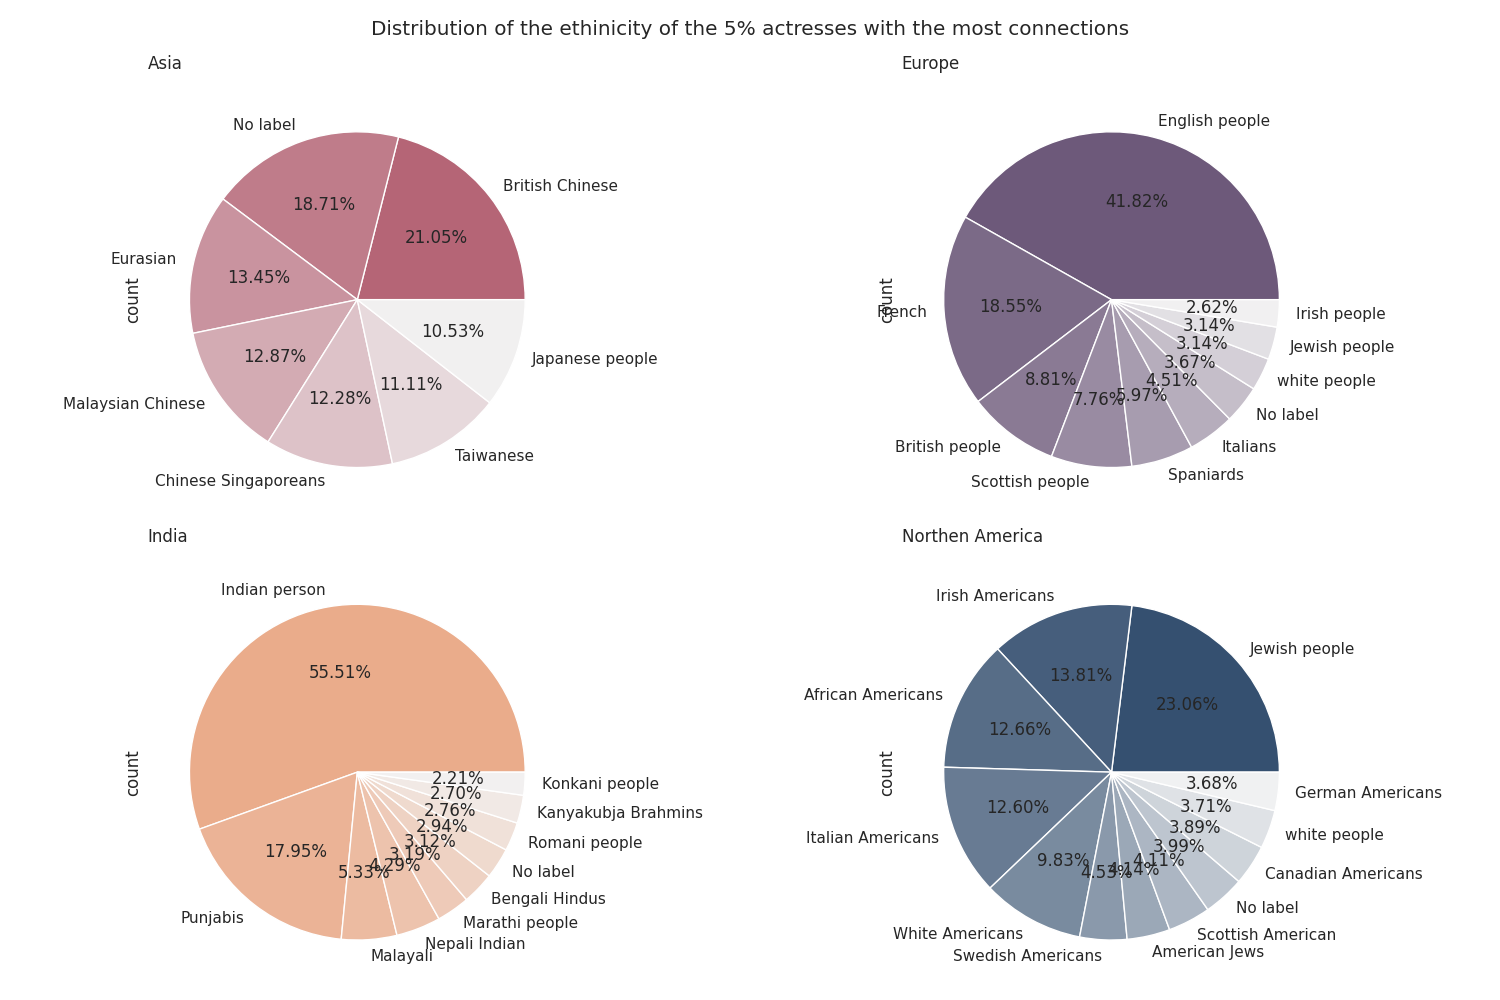
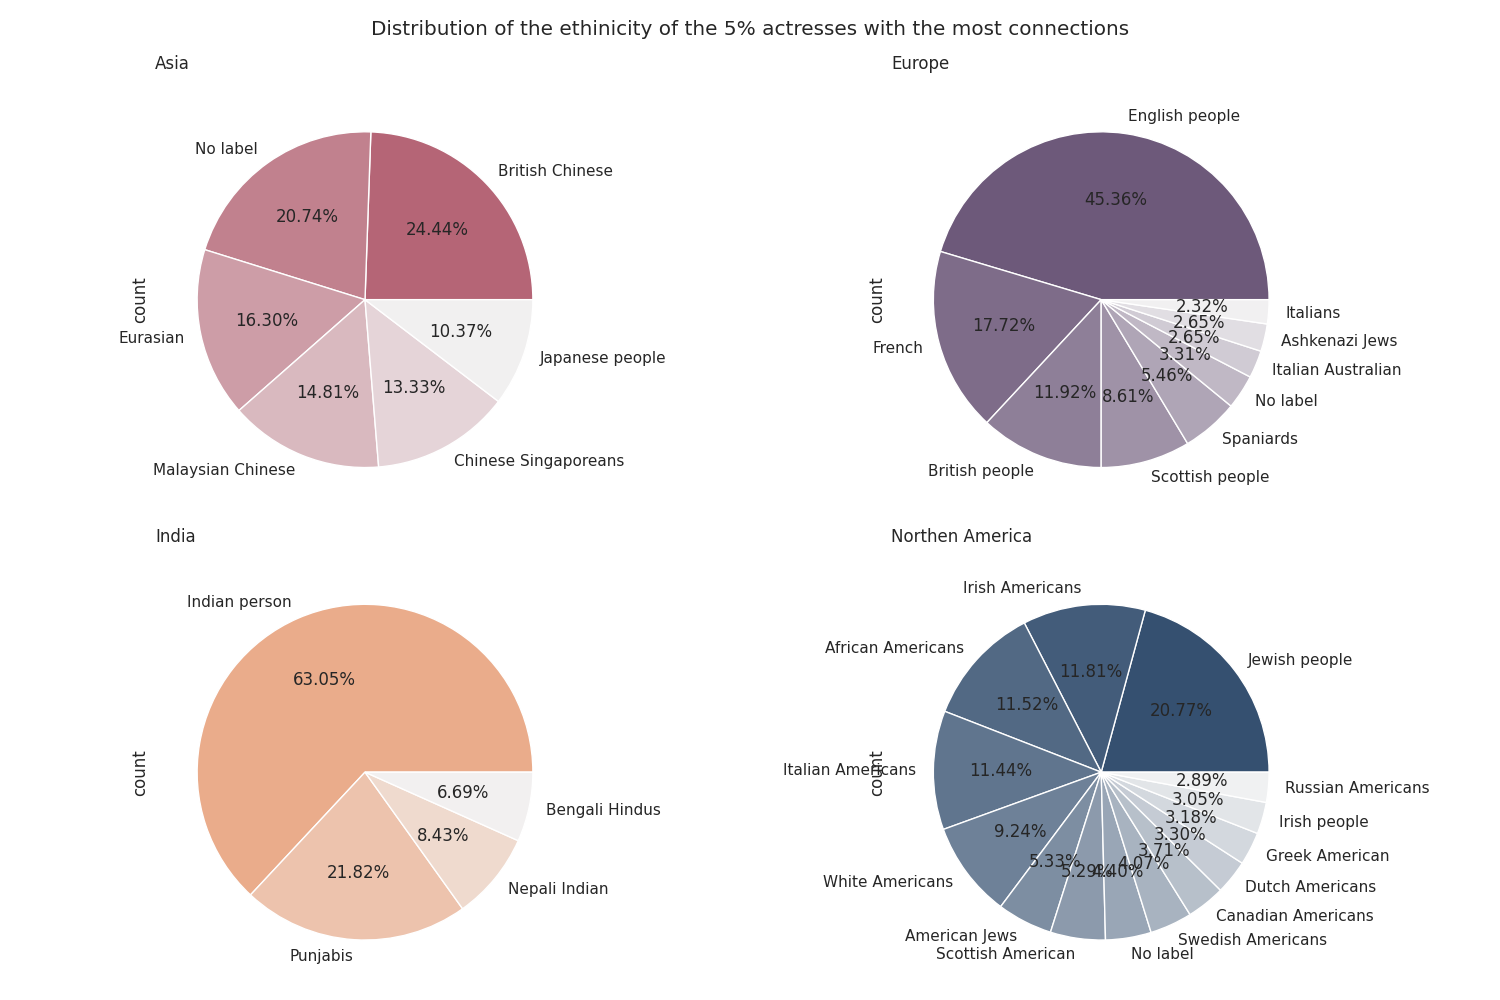
Add network analysis

diff --git a/_posts/2022-10-05-network.md b/_posts/2022-10-05-network.md
@@ -1,21 +1,55 @@
 ---
 layout: post
-title: Actors' connections
+title: Exploring the interconnected world of actors
 ---
 
-Exploring the connections between actors in the network tells us a lot about the importance of each of them. The goal of this part is to explore the relations between actors to find out who is the most important actor in the network and what general conclusions can be drawn from the characteristics of the most influential actors.
+The intricate web of connections between actors in the cinema industry is not just a curiosity, it's a reflection of influence, opportunity, and the dynamics of the industry. Our exploration aims to uncover the pivotal figures in this network and draw insights from the traits of these influential players.
 
-## Big whales in a vast ocean
+## Navigating the seas of stardom
 
-The first thing we can do is to find out who is the most connected actor in the network. We can do this by calculating the degree of each actor and then sorting them in descending order. The degree of an actor is the number of connections it has with other actors. The higher the degree, the more connected the actor is. 
+### Identifying the network hubs
+
+Our first step is to identify the most connected actors in the network. This is done by calculating the degree of each actor (the number of direct connections they have). Actors with higher degrees are central nodes in this vast network, people that we can call big whales in the ocean of the cinema industry.
 
 <img src="plots/connections_distribution.png" alt="Connections distribution" style="width: 100%;">
 
-As we can see in those distribution plots, the vast majority of actors have a very low degree. This means that most actors are not connected to many other actors. However, there are a few actors that are very well connected. In fact, the most connected actor in the Northern America has a degree of 1382 while the median degree is 28. This shows well the disparity between the most connected actors and the rest of the network. 
+The disparity in connection degrees is striking. Most actors have few links, with a median degree of just 28. In contrast, some are extraordinarily well-connected, like a North American actor boasting 1382 connections. This stark contrast highlights the uneven distribution of influence and reach.
+
+### The power of connection for new actors
+
+For an emerging actor, these "big whales" are vital. They are the gatekeepers to broader networks and greater influence. However, accessing these well-connected individuals is a significant challenge. We've pinpointed the top 2% of the most connected, active actors to help newcomers navigate these waters.
 
 <iframe src="plots/network_graph.html" style="width: 100%; height: 800px; border: none;"></iframe>
 
+Among these influential figures, here are a few notable names:
+
+<div style="display: flex; justify-content: center;">
+	<div style="text-align: center; margin: 0 10px; flex: 1;">
+		<img src="images/Bruce-Willis.png" alt="Bruce Willis" style="width: 150px;">
+		<p style="font-weight: bold; color: #a04144;">Bruce Willis</p>
+	</div>
+	<div style="text-align: center; margin: 0 10px; flex: 1;">
+		<img src="images/Keith-David.png" alt="Keith David" style="width: 150px;">
+		<p style="font-weight: bold; color: #a04144;">Keith David</p>
+	</div>
+	<div style="text-align: center; margin: 0 10px; flex: 1;">
+		<img src="images/Steve-Buscemi.png" alt="Steve Buscemi" style="width: 150px;">
+		<p style="font-weight: bold; color: #a04144;">Steve Buscemi</p>
+	</div>
+</div>
+
+## Unveiling patterns among the stars
+
+Moving beyond just identifying the most connected actors, our focus shifts to understanding the characteristics that define these influential figures. We start by spotlighting the most powerful women in the industry.
+
+<img src="plots/ethnicity_distribution.png" alt="Ethnicity distribution" style="width: 100%;">
+
+Do these top-tier actors share similar backgrounds, career paths, or even genres they frequently appear in? Are there discernible patterns in their rise to prominence? This part of our study delves into these questions, seeking to unravel the threads that weave these successful careers together.
+
 ## Are the most famous actors identical ?
 
-<img src="plots/age_height_distribution.png" alt="Age and height distribution" style="width: 100%;">
+Now that we know who are the most connected actors, we can try to find out what are the characteristics of those actors. First, as Joléa is a woman, we will concentrate on the most powerfull woman in the industry. We then want to find similarities between the most connected actresses. 
+
 <img src="plots/ethnicity_distribution.png" alt="Ethnicity distribution" style="width: 100%;">
+
+TODO - What can we conclude from those plots ?
